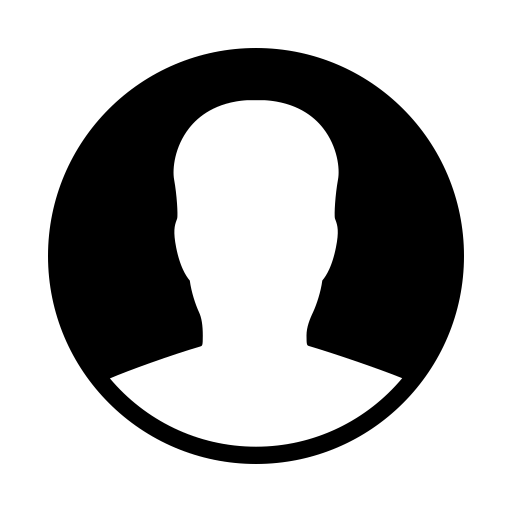
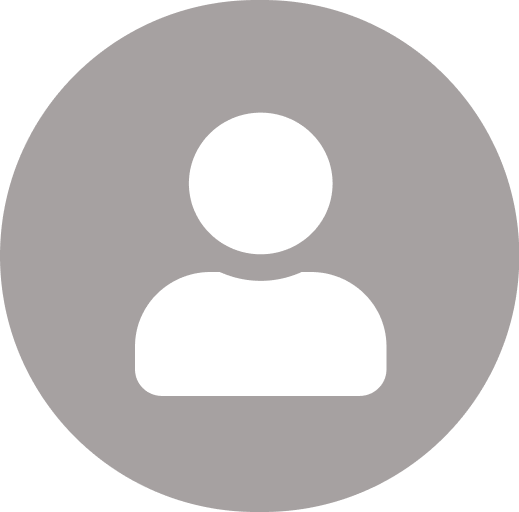
Mapping mandal in booth level user and change user profile placeholder

diff --git a/lib/Dashboard/Screen/homePage/screens/zila_data_page/widget/main_dropdown_widget.dart b/lib/Dashboard/Screen/homePage/screens/zila_data_page/widget/main_dropdown_widget.dart
@@ -222,10 +222,27 @@ class _MainDropdownWidgetState extends State<MainDropdownWidget> {
                           const SizedBox(
                             width: 10,
                           ),
-                          Text(
-                            showDropdownValueBasedOnType(locationList[index]),
-                            textAlign: TextAlign.left,
-                            style: GoogleFonts.quicksand(fontSize: 18, fontWeight: FontWeight.w500),
+                          Expanded(
+                            child: Column(
+                              mainAxisAlignment: MainAxisAlignment.start,
+                              crossAxisAlignment: CrossAxisAlignment.start,
+                              children: [
+                                Text(
+                                  showDropdownValueBasedOnType(locationList[index]),
+                                  textAlign: TextAlign.left,
+                                  style: GoogleFonts.quicksand(fontSize: 18, fontWeight: FontWeight.w500),
+                                ),
+                                if (widget.typeName == "Booth" && widget.typeLevel == "Booth")
+                                  Text(
+                                    locationList[index].mandalName == null
+                                        ? S.of(context).notMappedWithAnyMandal
+                                        : "${S.of(context).mappedMandal} :${locationList[index].mandalName ?? ""}",
+                                    textAlign: TextAlign.left,
+                                    style: GoogleFonts.quicksand(
+                                        fontSize: 14, fontWeight: FontWeight.w500, color: AppColor.borderColor),
+                                  ),
+                              ],
+                            ),
                           )
                         ],
                       ),

diff --git a/lib/AddEntry/Screen/add_entry_screen.dart b/lib/AddEntry/Screen/add_entry_screen.dart
@@ -480,7 +480,7 @@ class _AddEntryPageState extends State<AddEntryPage> {
             title: cubit.getLocaleName(cubit.entryField![i].displayNameForUI ?? "", currentLocale),
             validator: ((value) {
               if (value.isNotEmpty) {
-                if (cubit.calculateAge(DateFormat("dd-MMM-yyyy").parse(value)) < 16) {
+                if (cubit.calculateAge(DateFormat("dd/MM/yyyy").parse(value)) < 16) {
                   return S.of(context).dobError;
                 }
               }
